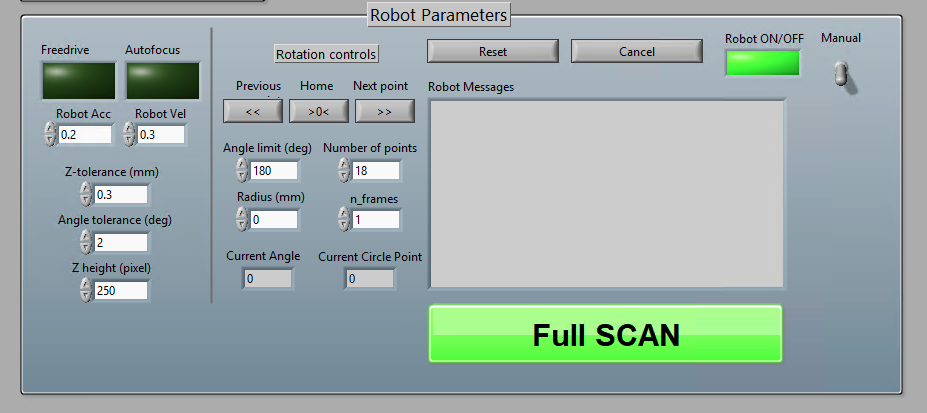
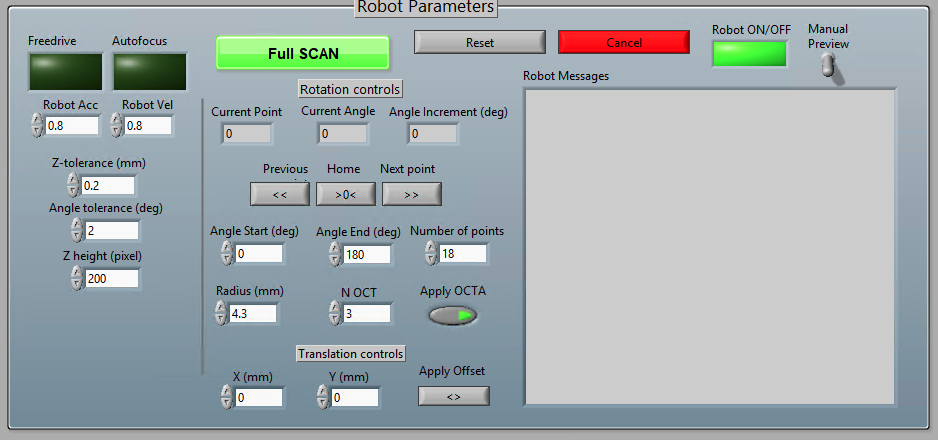
update images

diff --git a/src/scene_utils.cpp b/src/scene_utils.cpp
@@ -18,7 +18,7 @@ moveit_msgs::msg::CollisionObject make_floor(const std::string &frame_id) {
 
     shape_msgs::msg::SolidPrimitive primitive;
     primitive.type = shape_msgs::msg::SolidPrimitive::BOX;
-    primitive.dimensions = {10.0, 10.0, 0.01};
+    primitive.dimensions = {0.6, 0.6, 0.01};
 
     geometry_msgs::msg::Pose pose;
     pose.orientation.w = 1.0;

diff --git a/README.md b/README.md
@@ -235,9 +235,7 @@ bash utils/ur_moveit.sh
 
 ## Simulation
 
-![sim1](./assets/sim1.png)
-
-![sim2](./assets/sim2.png)
+![sim](./assets/sim.png)
 
 ## Hardware
 ![setup](./assets/setup.jpeg)
